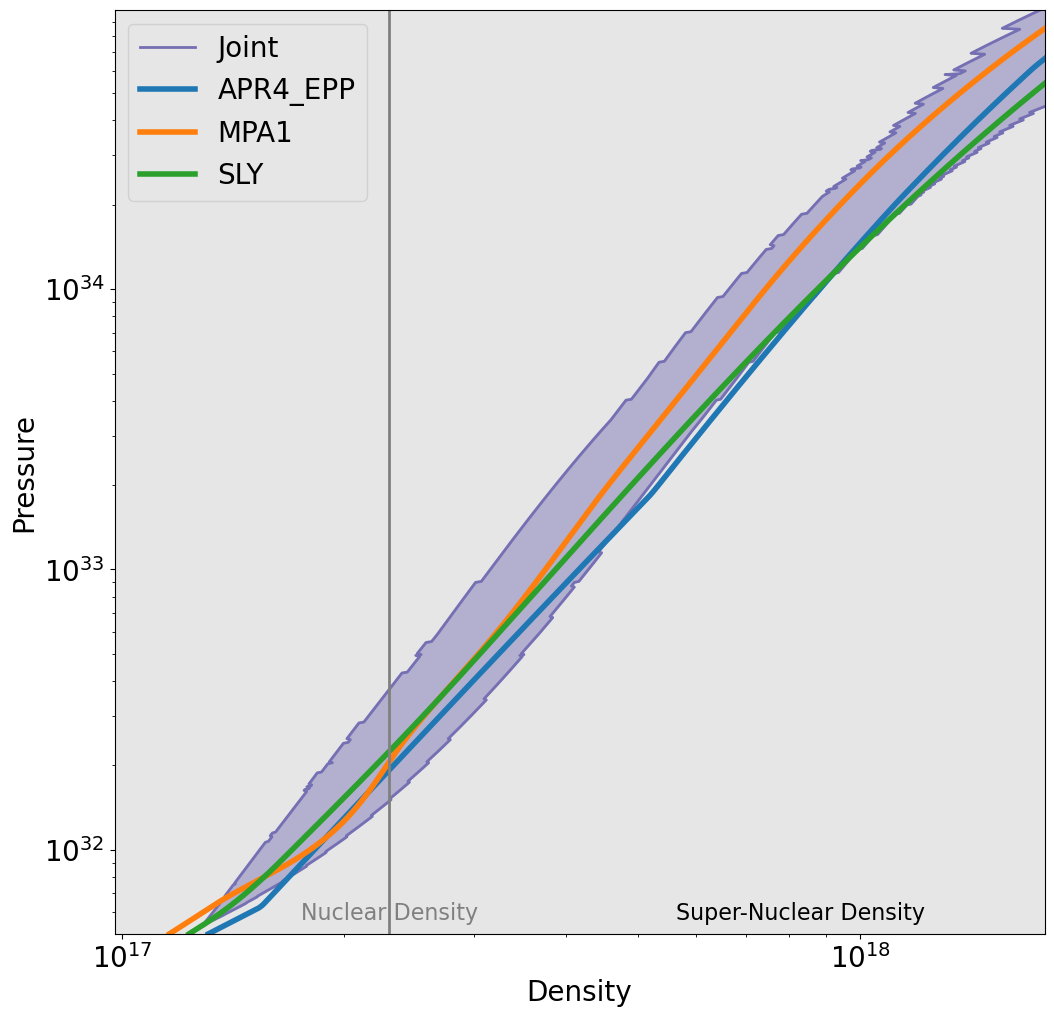
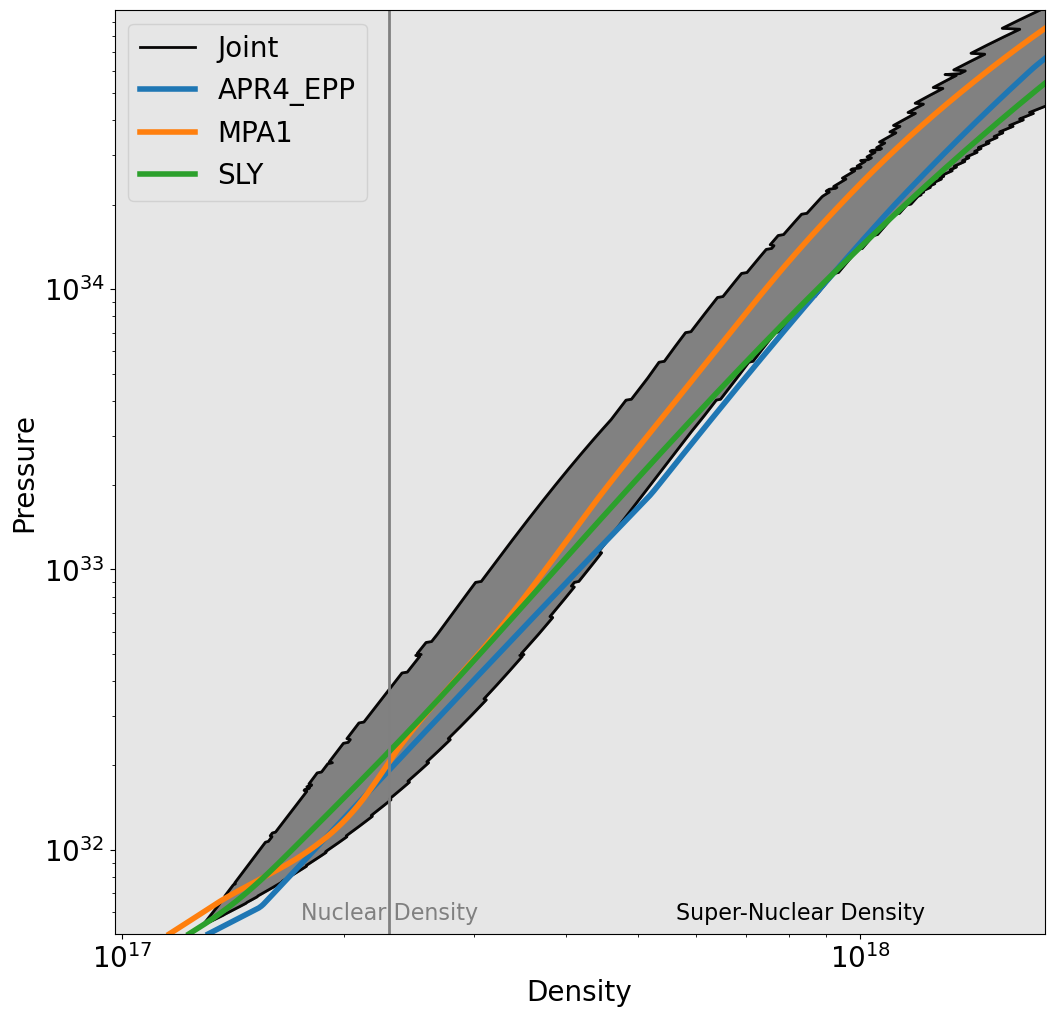
Final CASABONA plot revisions 31

Changed region(s): [[0.1822, 0.0, 1.0, 0.9145]]

diff --git a/joint_inference/development/SpringPresentation.py b/joint_inference/development/SpringPresentation.py
@@ -60,8 +60,8 @@ def overlap_namedEoS_constraint_p_rho(EoS_Names):
     File = "run_data/8th_cutoff_plotting/spectral_p_vs_rho_cutoff_W100_S10000_GW170817_J0030_hierarchical_confidence.txt"
     #label = "X-ray obs"
     label = "Joint"
-    color = "#7570b3"
-    #color = "#000000"
+    #color = "#7570b3"
+    color = "#070606"
     logp_grid, lower_bound, median, upper_bound = np.loadtxt(File).T
 
     ax1 = pl.gca()
